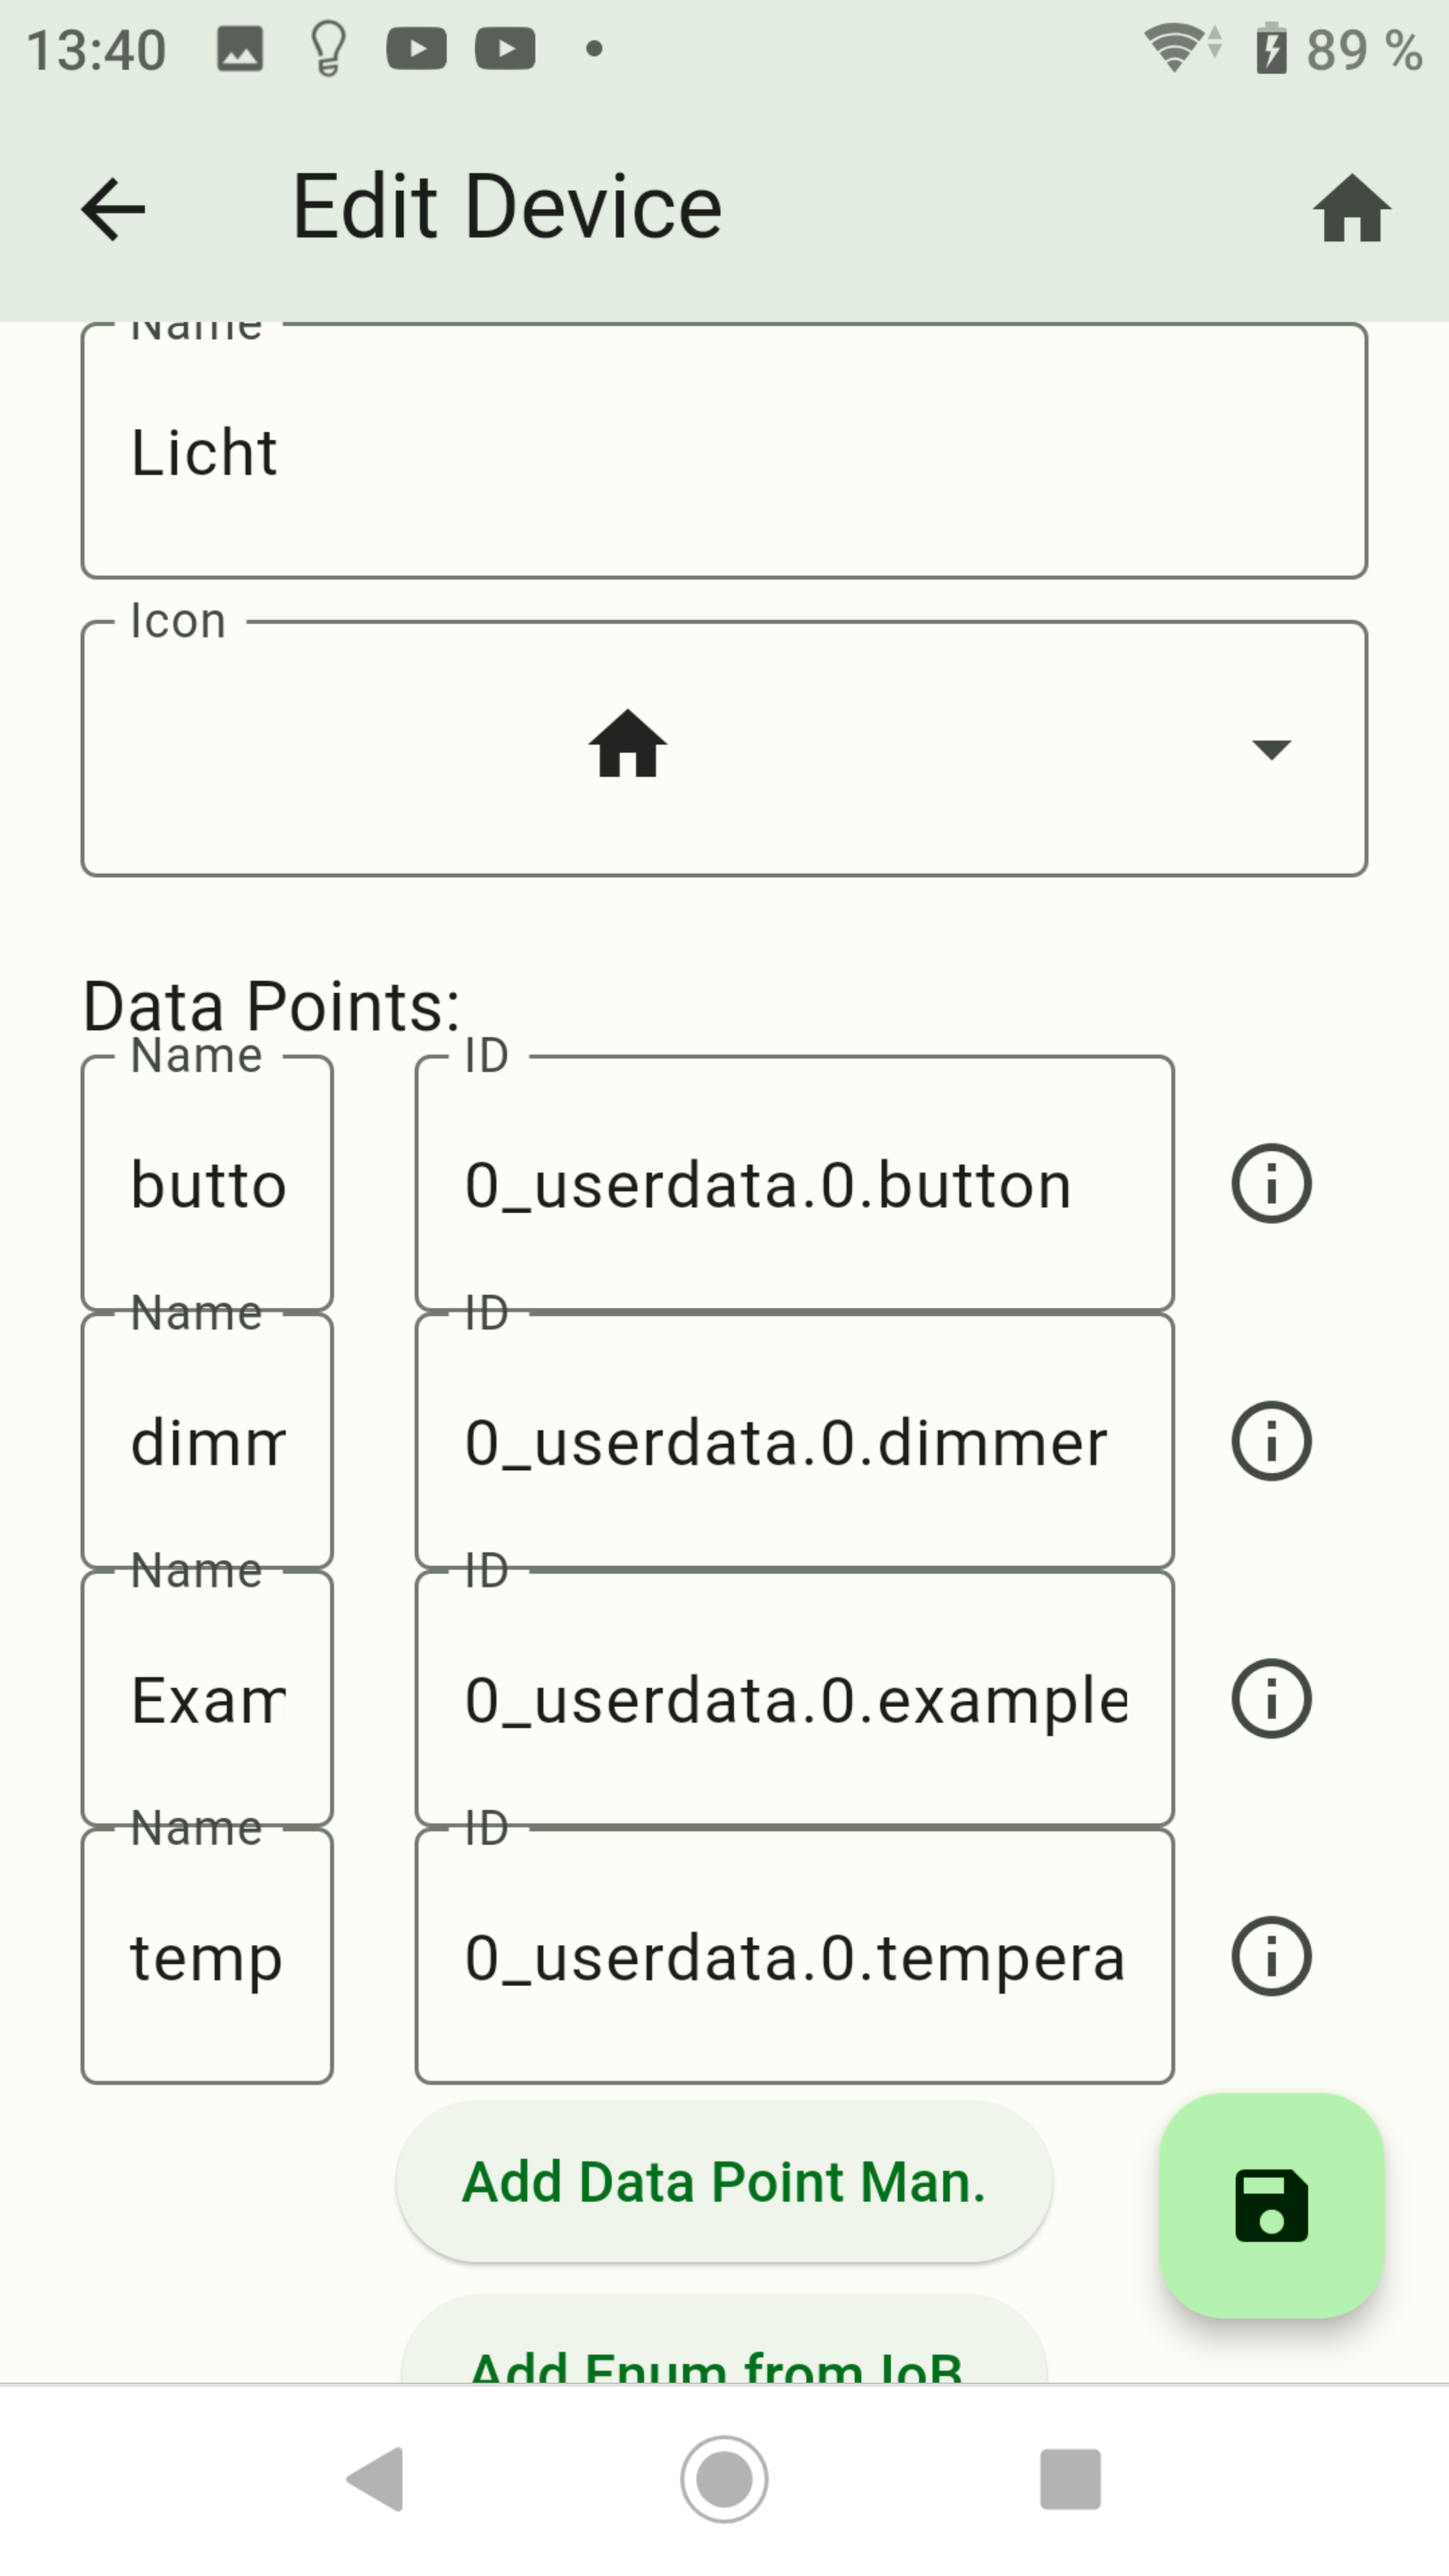
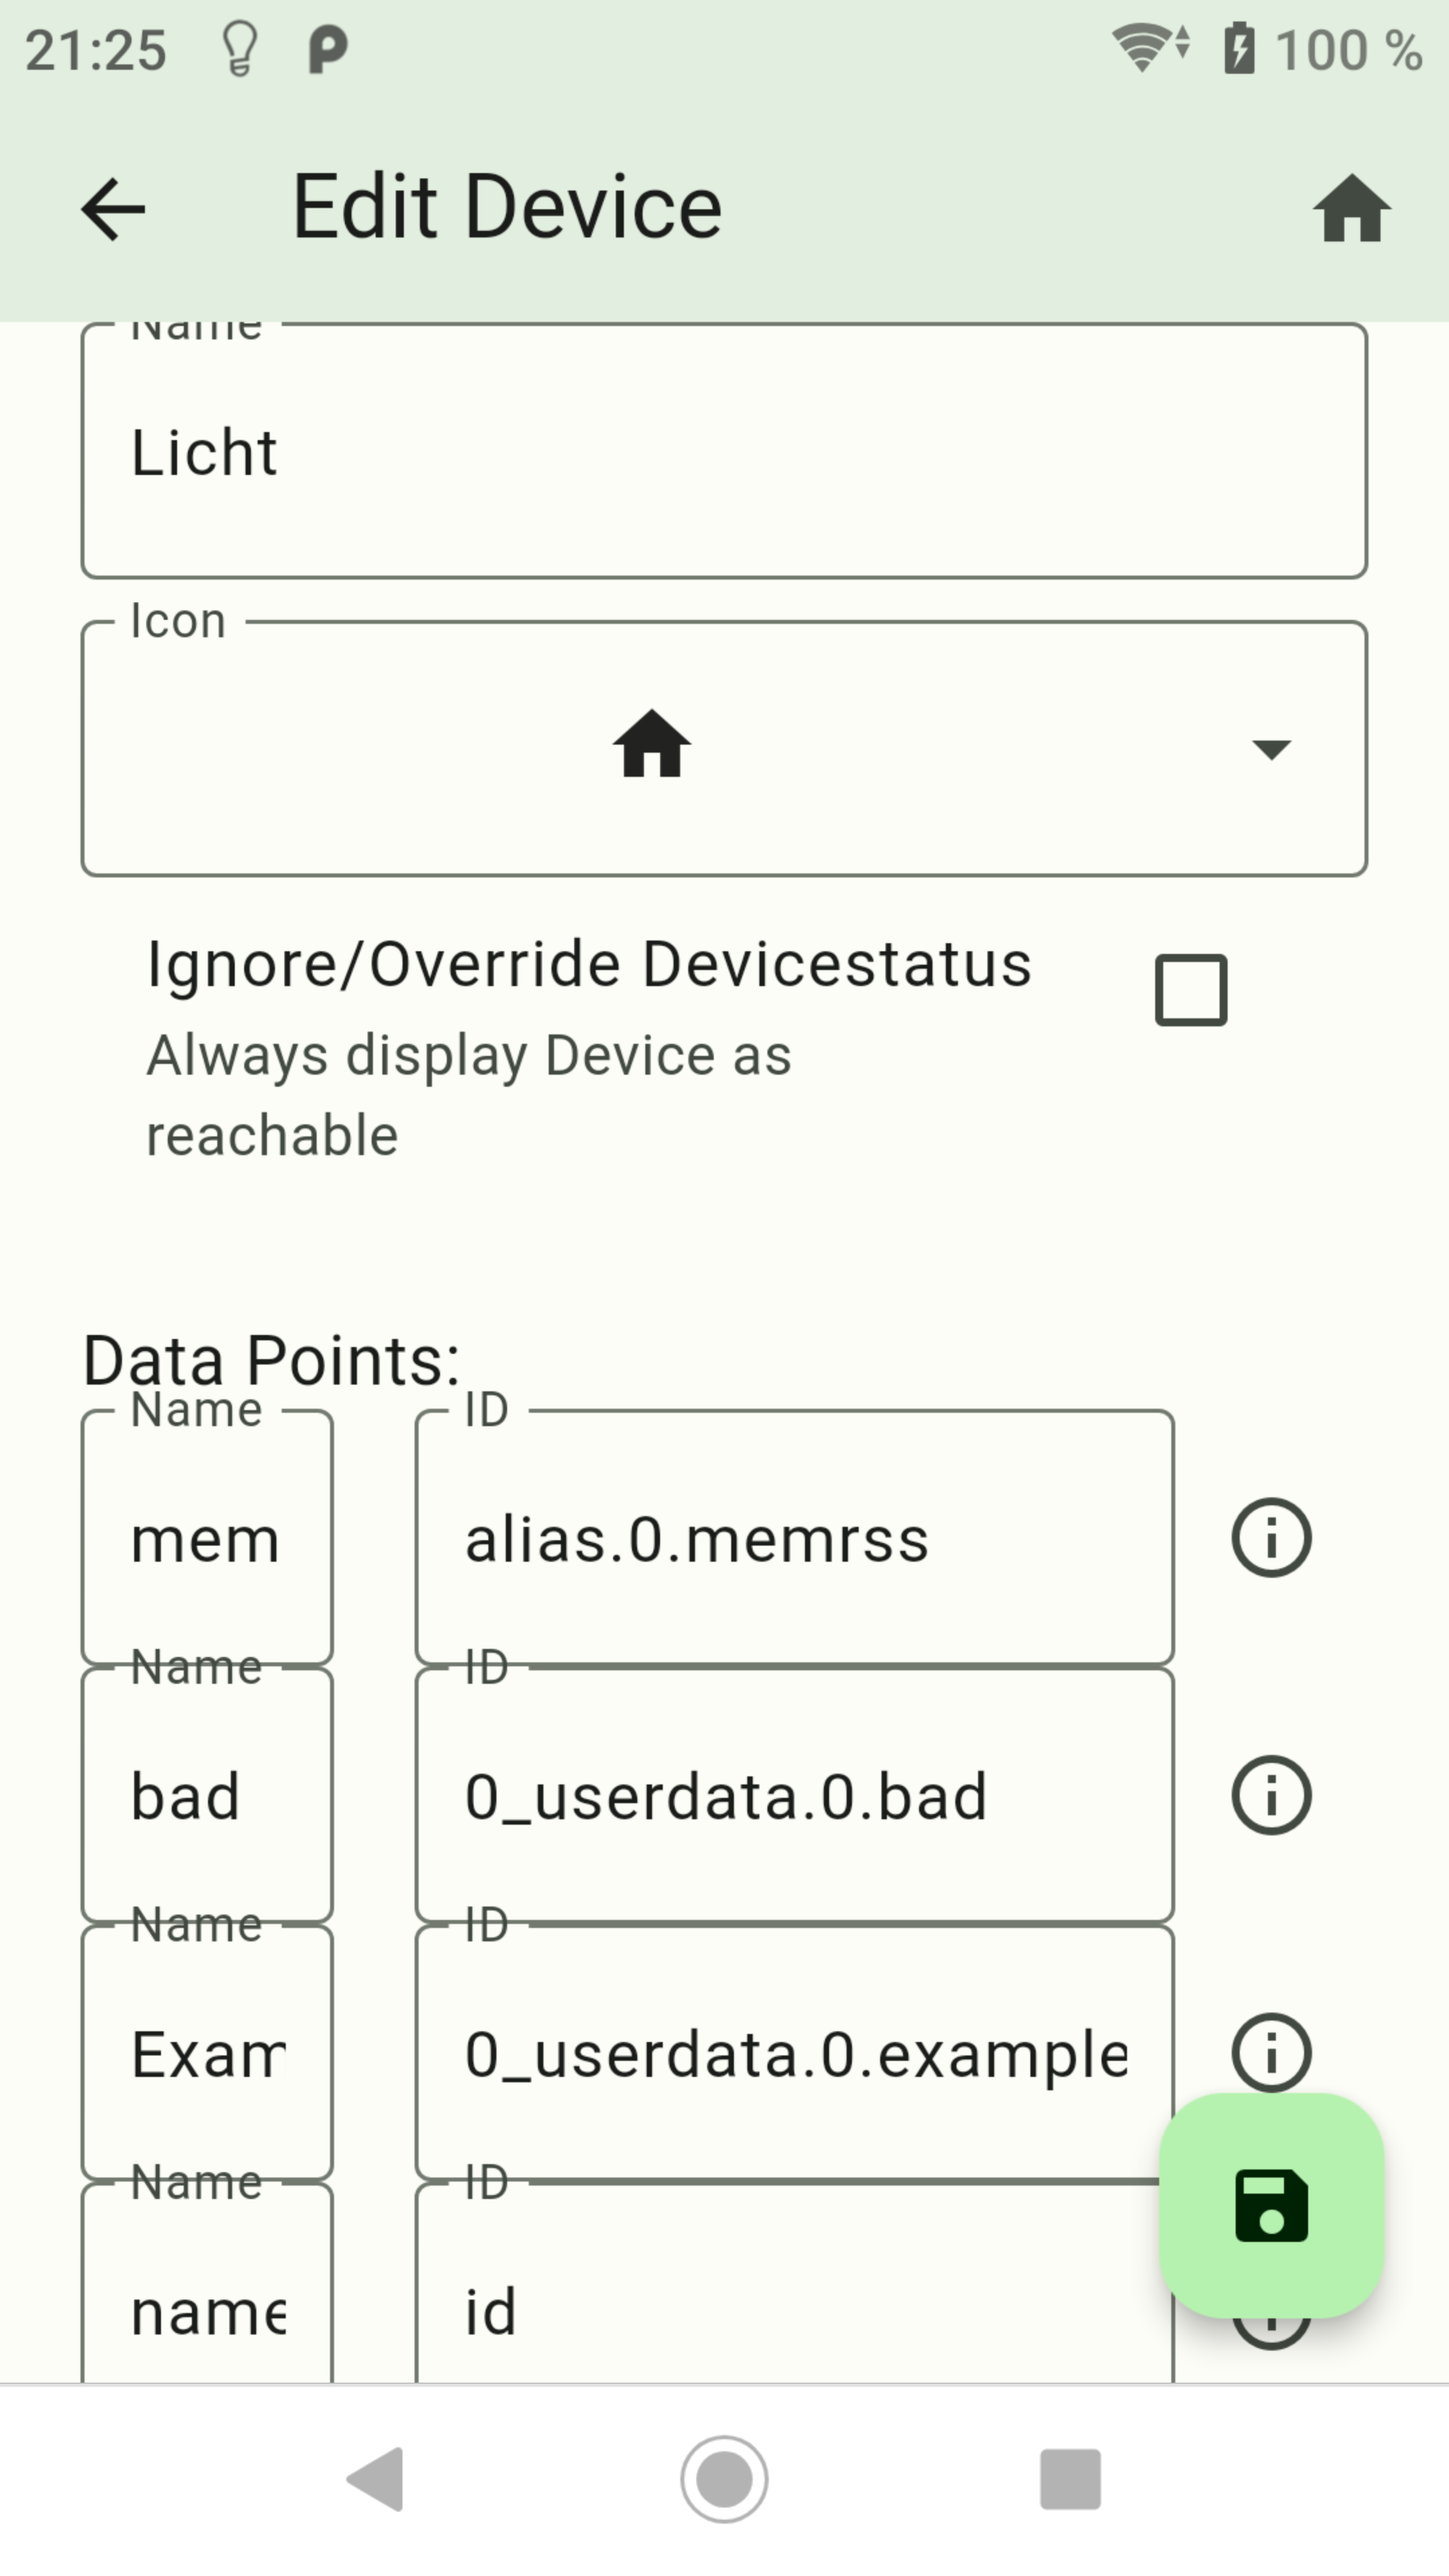
add reachable

diff --git a/docs/de/enum.md b/docs/de/enum.md
@@ -39,7 +39,7 @@ Mit wischen von rechts nach links können Kategorien gelöscht werden. Diese ers
 Danach speichern drücken.
 ![ENUM](img/app_create_cat_dp.png)
 
-9. Tippt auf eine Kategorie klicken um in die nächste Ansicht zu gelangen. Hier die Namen oder ID`s ändern beziehungsweise neue Datenpunkte hinzufügen. Mit wischen von rechts nach links können Datenpunkte gelöscht werden.
+9. Tippt auf eine Kategorie um in die nächste Ansicht zu gelangen. Hier die Namen oder ID's ändern beziehungsweise neue Datenpunkte hinzufügen. Mit wischen von rechts nach links können Datenpunkte gelöscht werden. `Ignore/Override Devicestatus`: Verfügbarkeit vom Geräte wird ignoriert
 ![ENUM](img/app_edit_device.png)
 ![ENUM](img/app_new_device.png)
 ![ENUM](img/app_del_device.png)

diff --git a/docs/en/enum.md b/docs/en/enum.md
@@ -48,7 +48,7 @@ Then press save.
 
 ![ENUM](../de/img/app_create_cat_dp.png)
 
-9. Tap on a category to go to the next view. Change the names or IDs here or add new states. States can be deleted by swiping from right to left.
+9. Tap on a category to go to the next view. Change the names or IDs here or add new states. States can be deleted by swiping from right to left. `Ignore/Override Devicestatus`: Reachable of the device is ignored
 
 ![ENUM](img/../../de/img/app_edit_device.png)
 ![ENUM](img/../../de/img/app_new_device.png)
